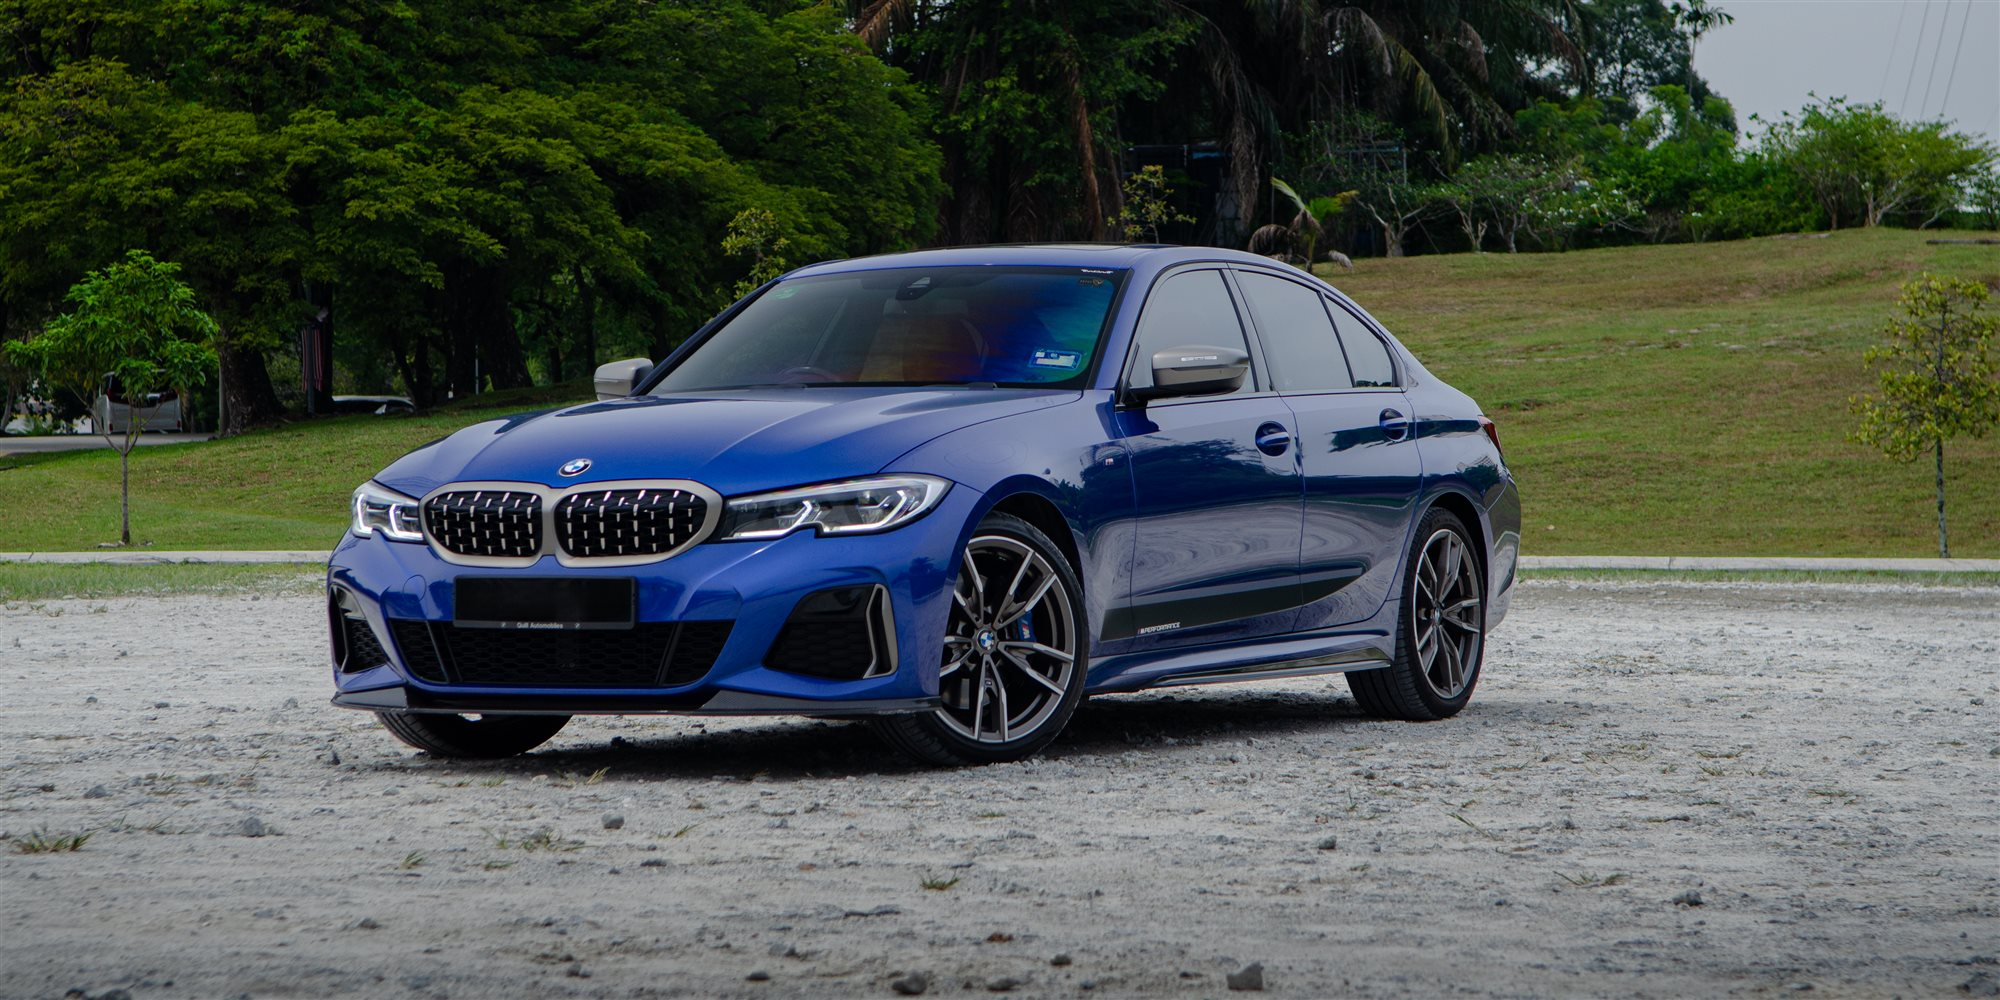
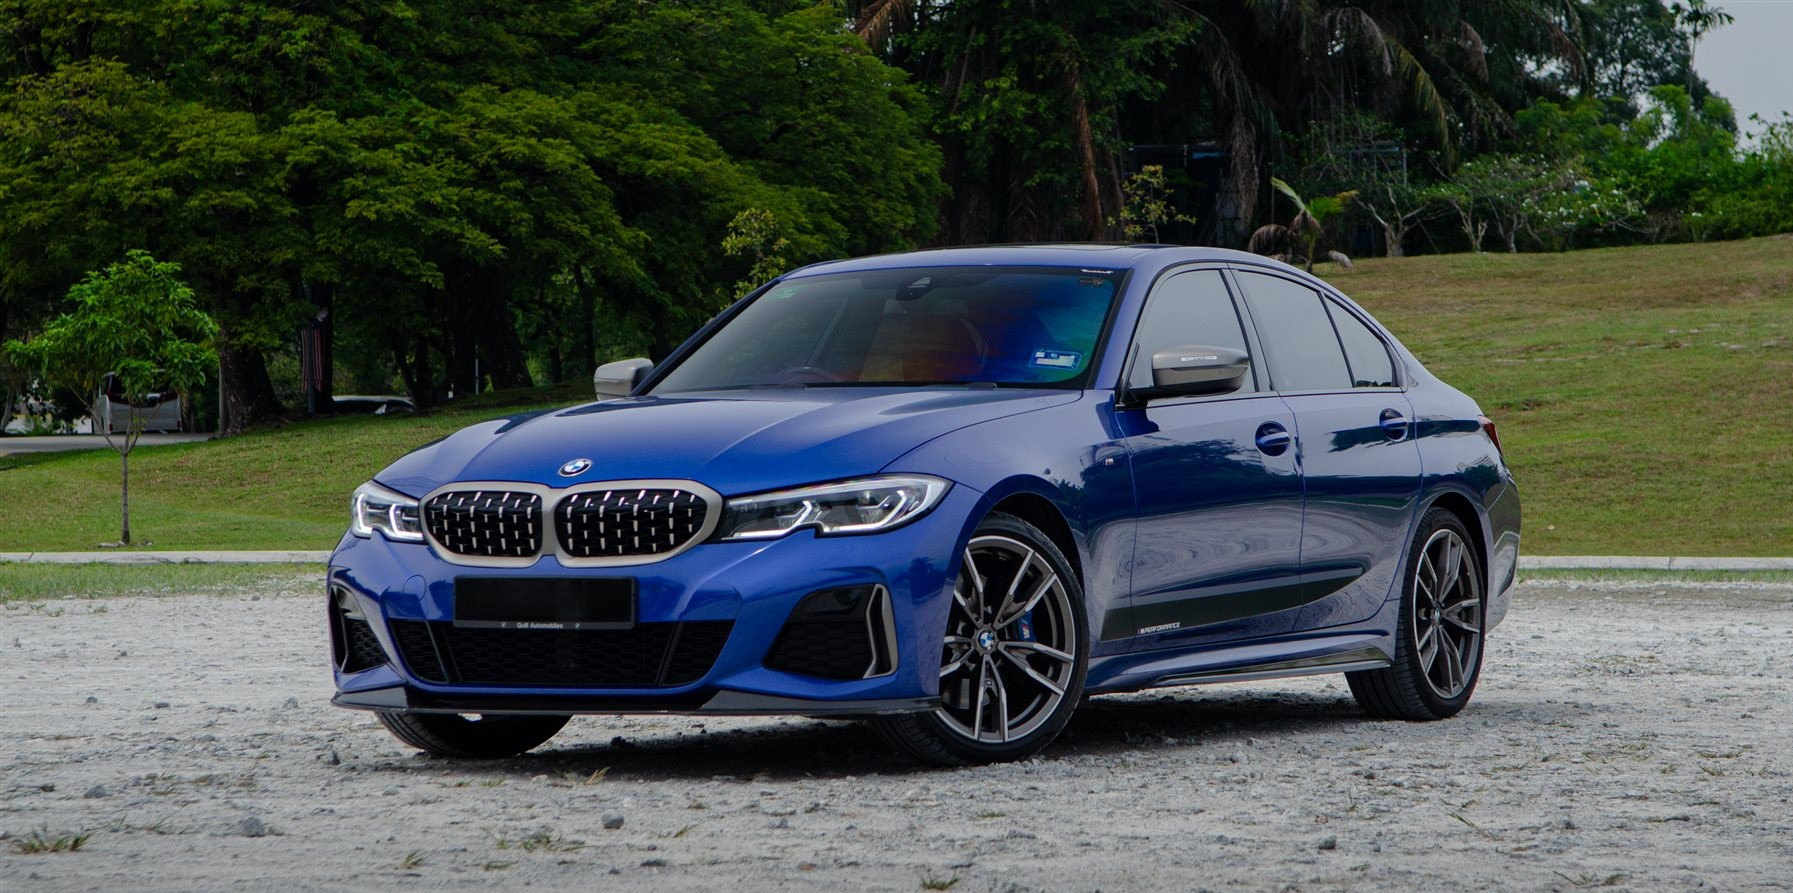
Sync: remove deleted BMW M340i photo DSC_5905 (bump v21)

diff --git a/event.html b/event.html
@@ -8,7 +8,7 @@
   <title>Event | Automotive Photography</title>
   <link rel="icon" type="image/png" href="photos/favicon.png">
   <link rel="apple-touch-icon" href="photos/favicon.png">
-  <link rel="stylesheet" href="css/style.css?v=20">
+  <link rel="stylesheet" href="css/style.css?v=21">
   <link rel="preconnect" href="https://fonts.googleapis.com">
   <link rel="preconnect" href="https://fonts.gstatic.com" crossorigin>
   <link href="https://fonts.googleapis.com/css2?family=Bebas+Neue&family=Montserrat:wght@300;400;500;600&display=swap" rel="stylesheet">
@@ -56,9 +56,9 @@
     <p>&copy; N.V MEDIA. All rights reserved.</p>
   </footer>
 
-  <script src="js/data.js?v=20"></script>
-  <script src="js/event.js?v=20"></script>
-  <script src="js/nav.js?v=20"></script>
+  <script src="js/data.js?v=21"></script>
+  <script src="js/event.js?v=21"></script>
+  <script src="js/nav.js?v=21"></script>
 </body>
 </html>
 

diff --git a/index.html b/index.html
@@ -8,7 +8,7 @@
   <title>N.V MEDIA | Automotive Photography</title>
   <link rel="icon" type="image/png" href="photos/favicon.png">
   <link rel="apple-touch-icon" href="photos/favicon.png">
-  <link rel="stylesheet" href="css/style.css?v=20">
+  <link rel="stylesheet" href="css/style.css?v=21">
   <link rel="preconnect" href="https://fonts.googleapis.com">
   <link rel="preconnect" href="https://fonts.gstatic.com" crossorigin>
   <link href="https://fonts.googleapis.com/css2?family=Bebas+Neue&family=Montserrat:wght@300;400;500;600&display=swap" rel="stylesheet">
@@ -50,9 +50,9 @@
     <p>&copy; N.V MEDIA. All rights reserved.</p>
   </footer>
 
-  <script src="js/data.js?v=20"></script>
-  <script src="js/main.js?v=20"></script>
-  <script src="js/nav.js?v=20"></script>
+  <script src="js/data.js?v=21"></script>
+  <script src="js/main.js?v=21"></script>
+  <script src="js/nav.js?v=21"></script>
 </body>
 </html>
 

diff --git a/portfolio.html b/portfolio.html
@@ -8,7 +8,7 @@
   <title>Full Portfolio | N.V MEDIA</title>
   <link rel="icon" type="image/png" href="photos/favicon.png">
   <link rel="apple-touch-icon" href="photos/favicon.png">
-  <link rel="stylesheet" href="css/style.css?v=20">
+  <link rel="stylesheet" href="css/style.css?v=21">
   <link rel="preconnect" href="https://fonts.googleapis.com">
   <link rel="preconnect" href="https://fonts.gstatic.com" crossorigin>
   <link href="https://fonts.googleapis.com/css2?family=Bebas+Neue&family=Montserrat:wght@300;400;500;600&display=swap" rel="stylesheet">
@@ -44,9 +44,9 @@
     <p>&copy; N.V MEDIA. All rights reserved.</p>
   </footer>
 
-  <script src="js/data.js?v=20"></script>
-  <script src="js/main.js?v=20"></script>
-  <script src="js/nav.js?v=20"></script>
+  <script src="js/data.js?v=21"></script>
+  <script src="js/main.js?v=21"></script>
+  <script src="js/nav.js?v=21"></script>
 </body>
 </html>
 

diff --git a/contacts.html b/contacts.html
@@ -8,7 +8,7 @@
   <title>Contacts | N.V MEDIA</title>
   <link rel="icon" type="image/png" href="photos/favicon.png">
   <link rel="apple-touch-icon" href="photos/favicon.png">
-  <link rel="stylesheet" href="css/style.css?v=20">
+  <link rel="stylesheet" href="css/style.css?v=21">
   <link rel="preconnect" href="https://fonts.googleapis.com">
   <link rel="preconnect" href="https://fonts.gstatic.com" crossorigin>
   <link href="https://fonts.googleapis.com/css2?family=Bebas+Neue&family=Montserrat:wght@300;400;500;600&display=swap" rel="stylesheet">
@@ -42,7 +42,7 @@
     <p>&copy; N.V MEDIA. All rights reserved.</p>
   </footer>
 
-  <script src="js/nav.js?v=20"></script>
+  <script src="js/nav.js?v=21"></script>
 </body>
 </html>
 

diff --git a/js/data.js b/js/data.js
@@ -735,7 +735,6 @@ const EVENTS = [
       'photos/bmw-m340i/DSC_5894.jpg',
       'photos/bmw-m340i/DSC_5900.jpg',
       'photos/bmw-m340i/DSC_5903.jpg',
-      'photos/bmw-m340i/DSC_5905.jpg',
       'photos/bmw-m340i/DSC_5907.jpg',
       'photos/bmw-m340i/DSC_5911.jpg',
       'photos/bmw-m340i/DSC_5916.jpg',